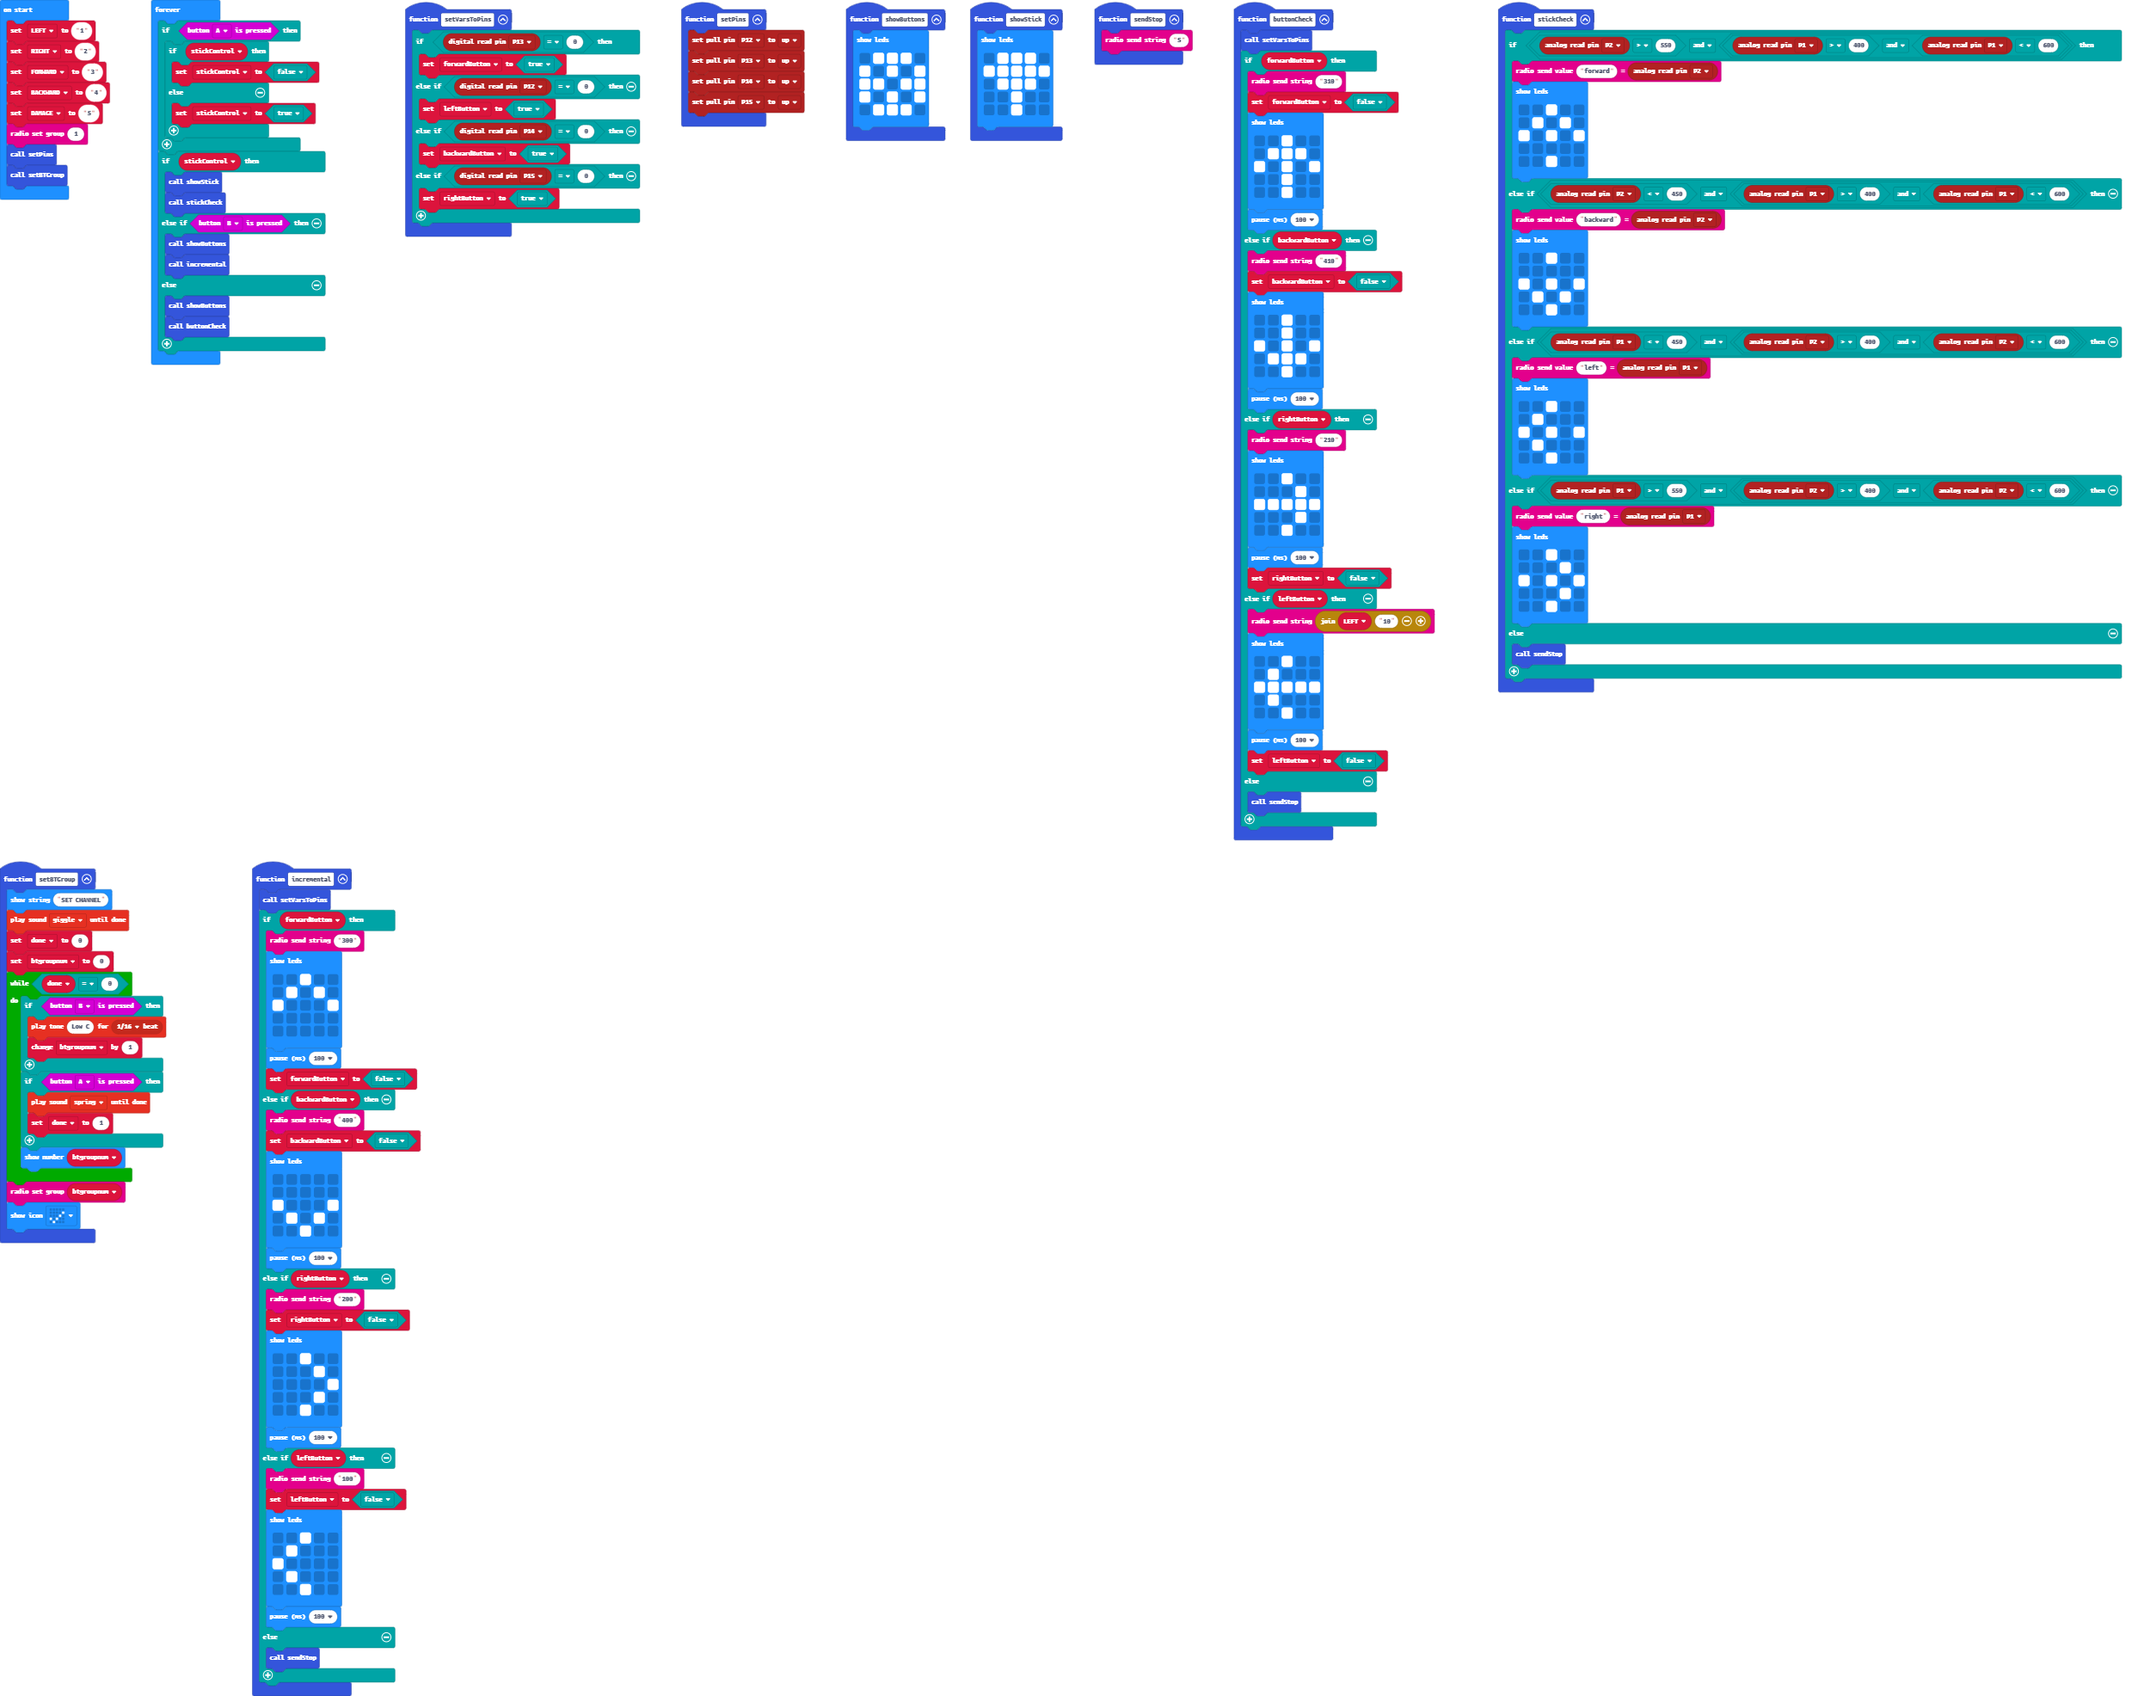
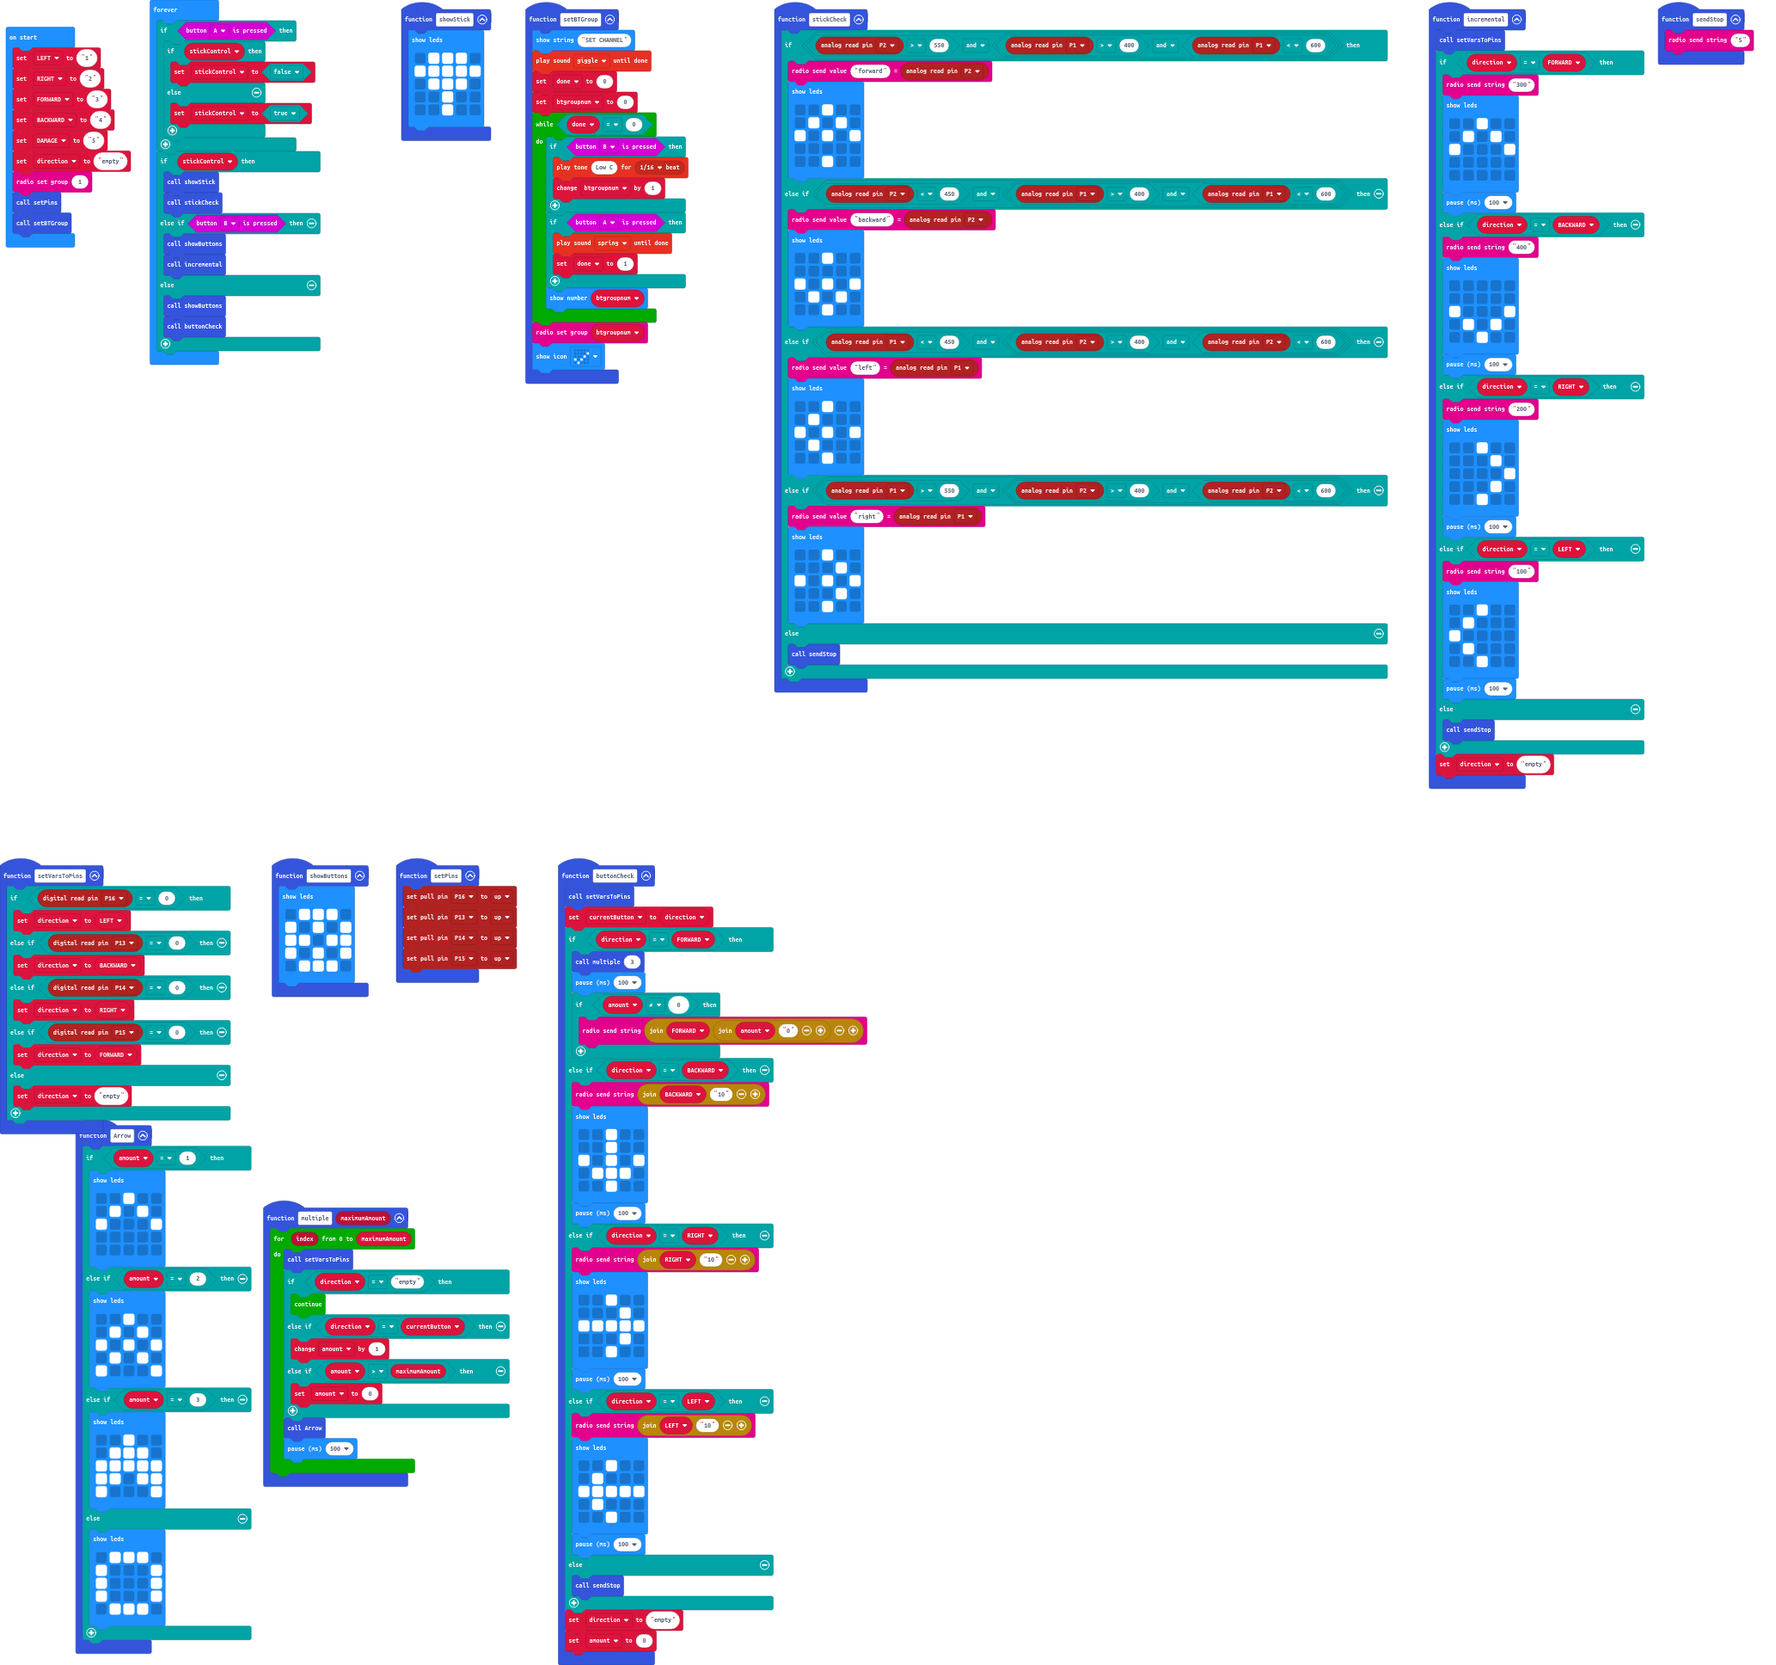
Removed excess vars, and introduced a hold and go mechanism

Changed region(s): [[0.0, 0.0, 0.9913, 0.4959], [0.0, 0.4959, 0.4956, 1.0]]

diff --git a/main.ts b/main.ts
@@ -7,6 +7,20 @@ function showStick () {
         . . # . .
         `)
 }
+function multiple (maximumAmount: number) {
+    for (let index = 0; index <= maximumAmount; index++) {
+        setVarsToPins()
+        if (direction == "empty") {
+            continue;
+        } else if (direction == currentButton) {
+            amount += 1
+        } else if (amount > maximumAmount) {
+            amount = 0
+        }
+        Arrow()
+        basic.pause(500)
+    }
+}
 function setBTGroup () {
     basic.showString("SET CHANNEL")
     soundExpression.giggle.playUntilDone()
@@ -69,7 +83,7 @@ function stickCheck () {
 }
 function incremental () {
     setVarsToPins()
-    if (forwardButton) {
+    if (direction == FORWARD) {
         radio.sendString("300")
         basic.showLeds(`
             . . # . .
@@ -79,10 +93,8 @@ function incremental () {
             . . . . .
             `)
         basic.pause(100)
-        forwardButton = false
-    } else if (backwardButton) {
+    } else if (direction == BACKWARD) {
         radio.sendString("400")
-        backwardButton = false
         basic.showLeds(`
             . . . . .
             . . . . .
@@ -91,9 +103,8 @@ function incremental () {
             . . # . .
             `)
         basic.pause(100)
-    } else if (rightButton) {
+    } else if (direction == RIGHT) {
         radio.sendString("200")
-        rightButton = false
         basic.showLeds(`
             . . # . .
             . . . # .
@@ -102,9 +113,8 @@ function incremental () {
             . . # . .
             `)
         basic.pause(100)
-    } else if (leftButton) {
+    } else if (direction == LEFT) {
         radio.sendString("100")
-        leftButton = false
         basic.showLeds(`
             . . # . .
             . # . . .
@@ -116,19 +126,22 @@ function incremental () {
     } else {
         sendStop()
     }
+    direction = "empty"
 }
 function sendStop () {
     radio.sendString("S")
 }
 function setVarsToPins () {
-    if (pins.digitalReadPin(DigitalPin.P13) == 0) {
-        forwardButton = true
-    } else if (pins.digitalReadPin(DigitalPin.P12) == 0) {
-        leftButton = true
+    if (pins.digitalReadPin(DigitalPin.P16) == 0) {
+        direction = LEFT
+    } else if (pins.digitalReadPin(DigitalPin.P13) == 0) {
+        direction = BACKWARD
     } else if (pins.digitalReadPin(DigitalPin.P14) == 0) {
-        backwardButton = true
+        direction = RIGHT
     } else if (pins.digitalReadPin(DigitalPin.P15) == 0) {
-        rightButton = true
+        direction = FORWARD
+    } else {
+        direction = "empty"
     }
 }
 function showButtons () {
@@ -141,27 +154,22 @@ function showButtons () {
         `)
 }
 function setPins () {
-    pins.setPull(DigitalPin.P12, PinPullMode.PullUp)
+    pins.setPull(DigitalPin.P16, PinPullMode.PullUp)
     pins.setPull(DigitalPin.P13, PinPullMode.PullUp)
     pins.setPull(DigitalPin.P14, PinPullMode.PullUp)
     pins.setPull(DigitalPin.P15, PinPullMode.PullUp)
 }
 function buttonCheck () {
     setVarsToPins()
-    if (forwardButton) {
-        radio.sendString("310")
-        forwardButton = false
-        basic.showLeds(`
-            . . # . .
-            . # # # .
-            # . # . #
-            . . # . .
-            . . # . .
-            `)
+    currentButton = direction
+    if (direction == FORWARD) {
+        multiple(3)
         basic.pause(100)
-    } else if (backwardButton) {
-        radio.sendString("410")
-        backwardButton = false
+        if (amount != 0) {
+            radio.sendString("" + FORWARD + ("" + amount + "0"))
+        }
+    } else if (direction == BACKWARD) {
+        radio.sendString("" + BACKWARD + "10")
         basic.showLeds(`
             . . # . .
             . . # . .
@@ -170,8 +178,8 @@ function buttonCheck () {
             . . # . .
             `)
         basic.pause(100)
-    } else if (rightButton) {
-        radio.sendString("210")
+    } else if (direction == RIGHT) {
+        radio.sendString("" + RIGHT + "10")
         basic.showLeds(`
             . . # . .
             . . . # .
@@ -180,8 +188,7 @@ function buttonCheck () {
             . . # . .
             `)
         basic.pause(100)
-        rightButton = false
-    } else if (leftButton) {
+    } else if (direction == LEFT) {
         radio.sendString("" + LEFT + "10")
         basic.showLeds(`
             . . # . .
@@ -191,24 +198,63 @@ function buttonCheck () {
             . . # . .
             `)
         basic.pause(100)
-        leftButton = false
     } else {
         sendStop()
     }
+    direction = "empty"
+    amount = 0
+}
+function Arrow () {
+    if (amount == 1) {
+        basic.showLeds(`
+            . . # . .
+            . # . # .
+            # . . . #
+            . . . . .
+            . . . . .
+            `)
+    } else if (amount == 2) {
+        basic.showLeds(`
+            . . # . .
+            . # . # .
+            # . # . #
+            . # . # .
+            # . . . #
+            `)
+    } else if (amount == 3) {
+        basic.showLeds(`
+            . . # . .
+            . # # # .
+            # # # # #
+            # # . # #
+            # . . . #
+            `)
+    } else {
+        basic.showLeds(`
+            . # # # .
+            # . . . #
+            # . . . #
+            # . . . #
+            . # # # .
+            `)
+    }
 }
 let stickControl = false
-let leftButton = false
-let rightButton = false
-let backwardButton = false
-let forwardButton = false
 let btgroupnum = 0
 let done = 0
+let amount = 0
+let currentButton = ""
+let direction = ""
+let BACKWARD = ""
+let FORWARD = ""
+let RIGHT = ""
 let LEFT = ""
 LEFT = "1"
-let RIGHT = "2"
-let FORWARD = "3"
-let BACKWARD = "4"
+RIGHT = "2"
+FORWARD = "3"
+BACKWARD = "4"
 let DAMAGE = "5"
+direction = "empty"
 radio.setGroup(1)
 setPins()
 setBTGroup()
